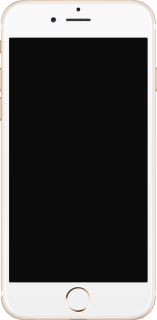
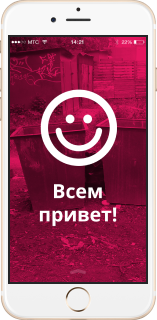
Добавляет адаптивность хедера (кроме логотипа)

diff --git a/source/sass/blocks/page-header.scss b/source/sass/blocks/page-header.scss
@@ -10,11 +10,21 @@
   background-position: top;
   background-size: cover;
 
+  @media (min-resolution: 2dppx) {
+    background-image: url("../img/header/background-mobile@2x.jpg");
+    background-size: cover;
+  }
+
   &--index {
     background-image: url("../img/header/phone-mobile.png"), url("../img/header/background-mobile.jpg");
     background-repeat: no-repeat;
     background-position: left 176px, top;
     background-size: auto auto;
+
+    @media (min-resolution: 2dppx) {
+      background-image: url("../img/header/phone-mobile@2x.png"), url("../img/header/background-mobile@2x.jpg");
+      background-size: 320px auto;
+    }
   }
 }
 
@@ -53,10 +63,20 @@
     background-position: top;
     background-size: auto;
 
+    @media (min-resolution: 2dppx) {
+      background-image: url("../img/header/background-tablet@2x.jpg");
+      background-size: 660px auto;
+    }
+
     &--index {
       background-image: url("../img/header/phone-tablet.png"), url("../img/header/background-tablet.jpg");
       background-position: bottom, top;
       background-size: auto, cover;
+
+      @media (min-resolution: 2dppx) {
+        background-image: url("../img/header/phone-tablet@2x.png"), url("../img/header/background-tablet@2x.jpg");
+        background-size: 660px auto, cover;
+      }
     }
   }
 
@@ -97,10 +117,20 @@
     background-position: top;
     background-size: auto;
 
+    @media (min-resolution: 2dppx) {
+      background-image: url("../img/header/background-desktop@2x.jpg");
+      background-size: 1200px auto;
+    }
+
     &--index {
       background-image: url("../img/header/phone-desktop.png"), url("../img/header/background-desktop.jpg");
       background-position: 150px bottom, top;
       background-size: auto, auto;
+
+      @media (min-resolution: 2dppx) {
+        background-image: url("../img/header/phone-desktop@2x.png"), url("../img/header/background-desktop@2x.jpg");
+        background-size: 1050px auto, 1200px auto;
+      }
     }
   }
 

diff --git a/source/sass/blocks/benefits.scss b/source/sass/blocks/benefits.scss
@@ -17,9 +17,9 @@
 }
 
 .benefits__background-wrapper {
-  background-image: url("../img/index/benefits-screen-mobile.png"), url("../img/index/benefits-phone-mobile.png");
+  background-image: url("../img/index/benefits-phone-mobile.png");
   background-repeat: no-repeat;
-  background-position: center 545px, center 508px;
+  background-position: center 508px;
   width: 100%;
 }
 
@@ -61,9 +61,9 @@
 
   .benefits__background-wrapper {
     z-index: 1;
-    background-image: url("../img/index/benefits-screen-tablet.png"), url("../img/index/benefits-phone-tablet.png");
+    background-image: url("../img/index/benefits-phone-tablet.png");
     background-repeat: no-repeat;
-    background-position: 35px 67px, 20px 6px;
+    background-position: 20px 6px;
   }
 
   .benefits__list {
